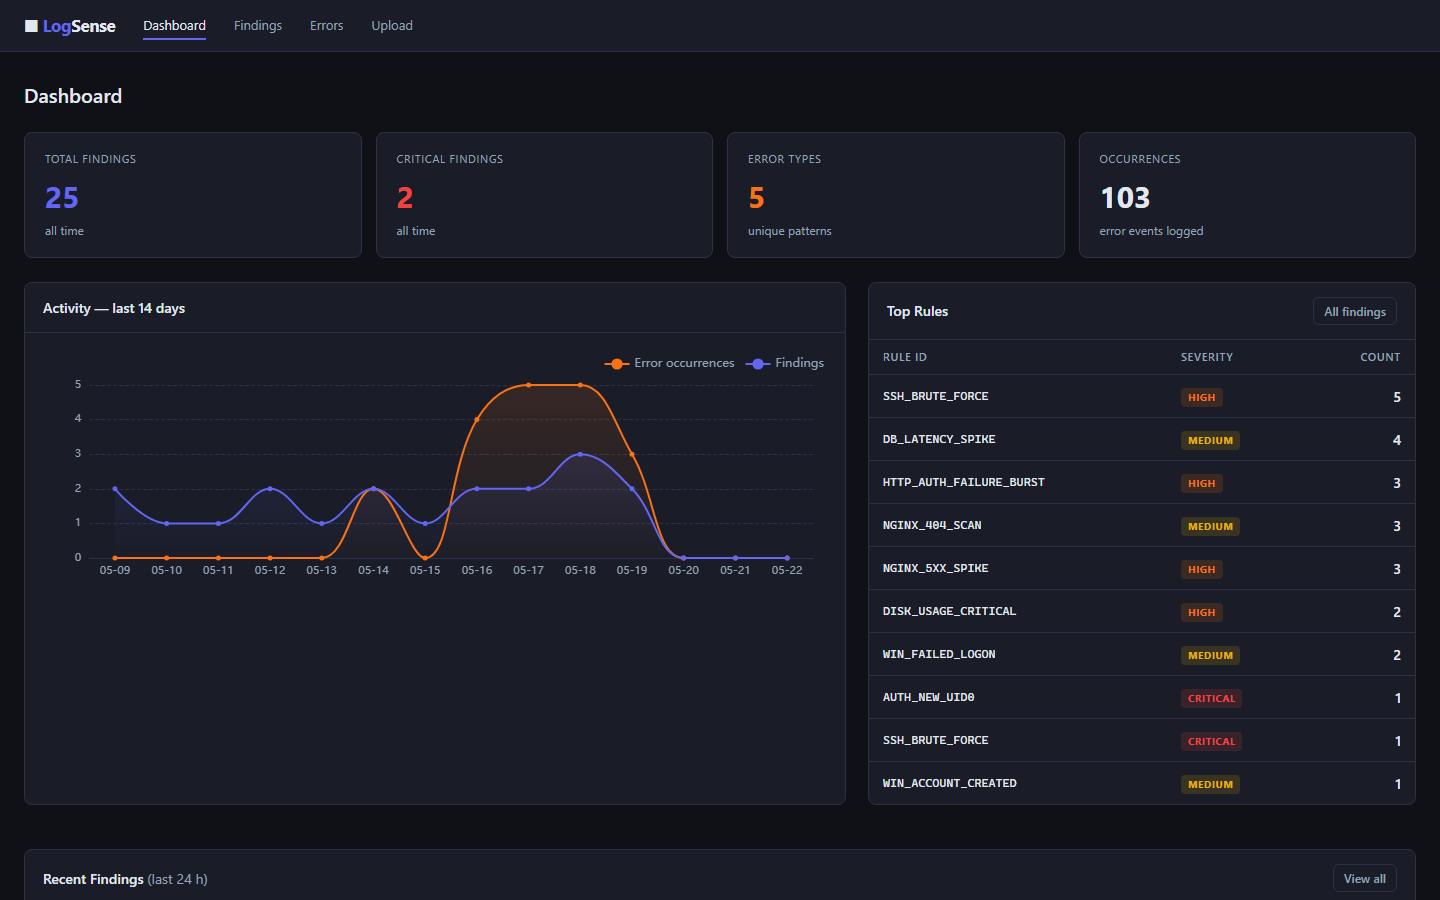
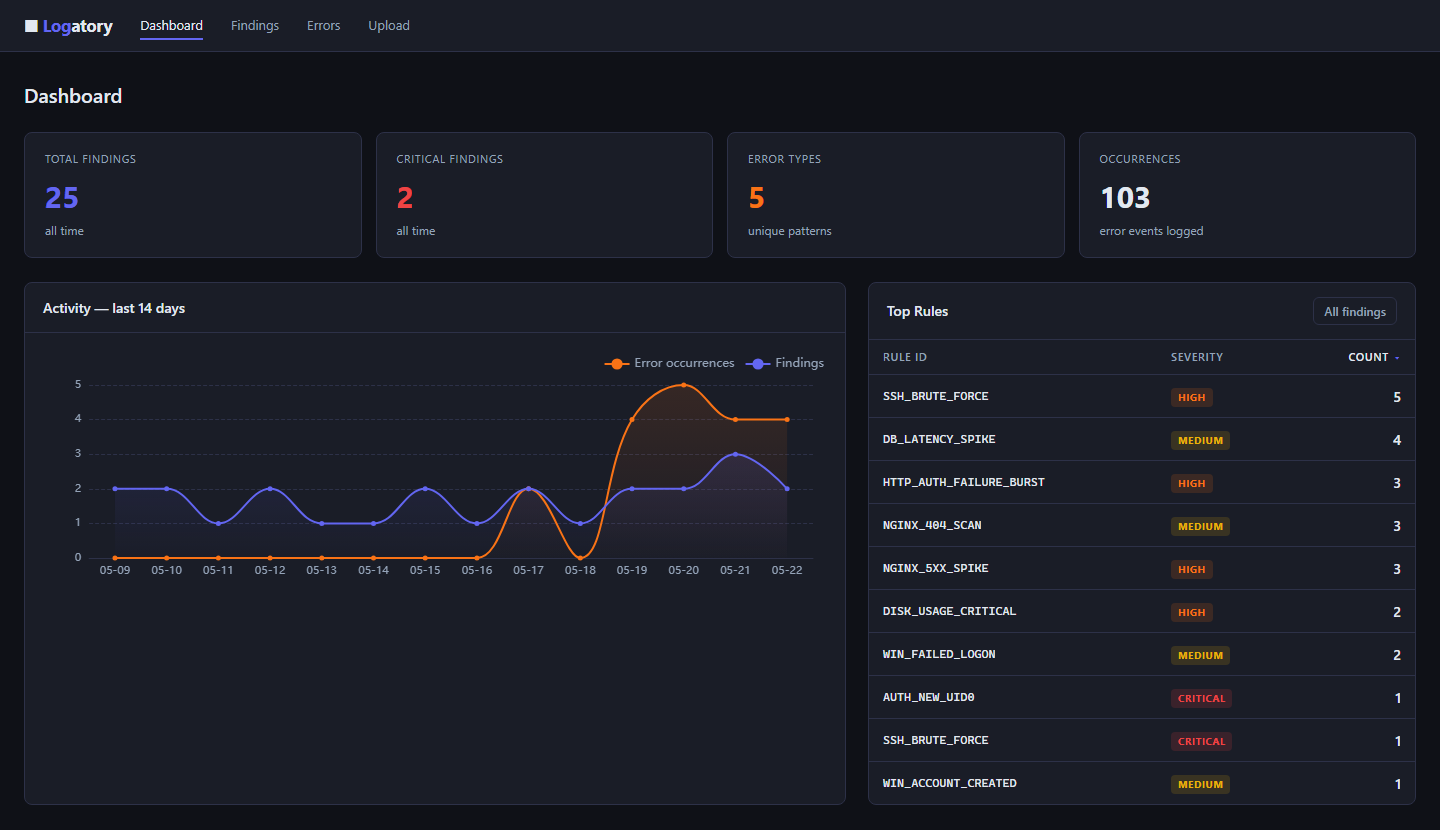
docs: refresh dashboard screenshot and fix its link for PyPI
The committed screenshot still showed the old "LogSense" wordmark —
it predated the rename to Logatory. Recaptured from the current
dashboard, which correctly reads "Logatory".

Also switched the README image reference from a relative path to an
absolute raw-GitHub URL: relative image paths render on GitHub but
not on the PyPI project page, so the screenshot was invisible there.

diff --git a/README.md b/README.md
@@ -6,7 +6,7 @@
 
 **Local log analysis with PII redaction, rule-based threat detection, anomaly detection, LLM-powered insights, and a web dashboard — all running on your machine, no data leaves your infrastructure by default.**
 
-![Logatory web dashboard](docs/dashboard.png)
+![Logatory web dashboard](https://raw.githubusercontent.com/T0nd3/logatory/master/docs/dashboard.png)
 
 Or stay in the terminal — format auto-detected, PII redacted, threats flagged:
 